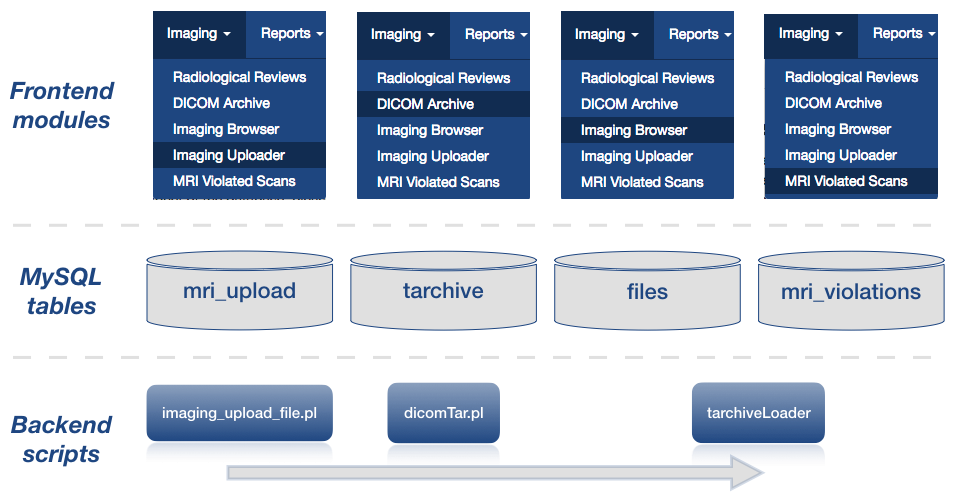
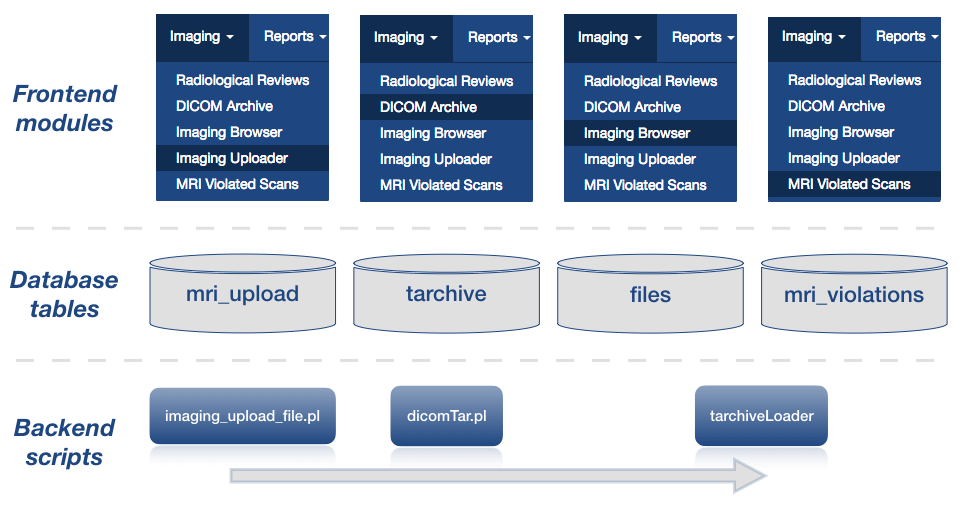
Cleaned up the overall flow graph

diff --git a/docs/03-Install.md b/docs/03-Install.md
@@ -8,6 +8,11 @@
 
 ## 3.4 Pipeline flow
 
+The graph below shows the different frontend modules as well as the name
+  of the main table used by those modules and the scripts that allows
+  insertion in the database of the information displayed within those
+  modules.
+
 ![pipeline_flow](images/overall_flow.png)
 
 Once a new imaging study has been uploaded via the imaging uploader
@@ -33,7 +38,6 @@ After the DICOM study has been archived and inserted into the database
 
 
 ![pipeline_flow](images/pipeline_flow.png)
-
 
 
 ## 3.5 Common errors
